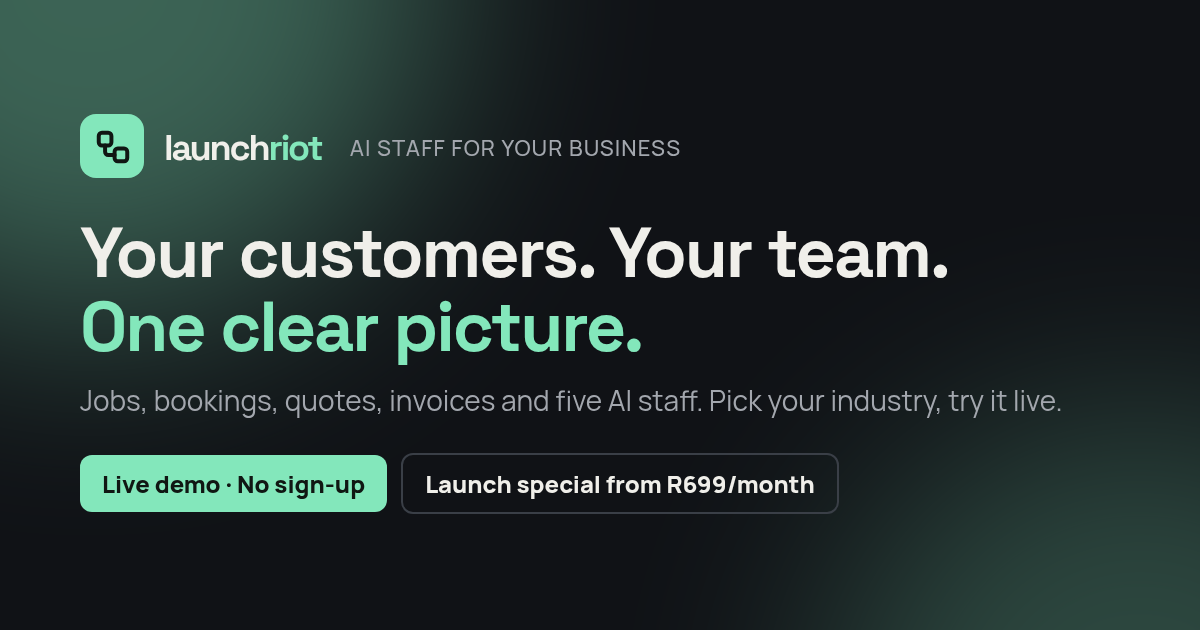
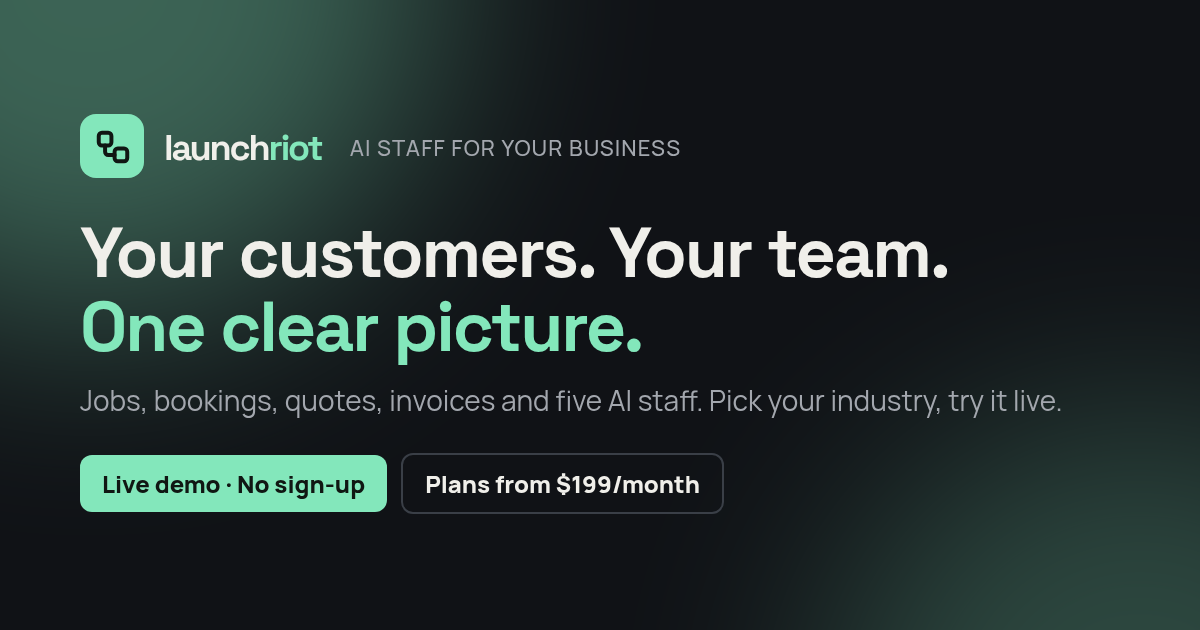
New USD pricing: Starter $199, Growth $249, Extreme / Heavy usage $499

Changed region(s): [[0.3392, 0.754, 0.6783, 0.7841], [0.6167, 0.6937, 0.6783, 0.7238]]

diff --git a/app.js b/app.js
@@ -25,17 +25,14 @@ function fake(what){D.sent.unshift({t:new Date().toLocaleString(),what});save();
 const cust=id=>D.customers.find(c=>c.id==id)?.name||'',tech=id=>D.techs.find(t=>t.id==id)?.name||'';
 const pill=s=>`<span class="pill ${s.toLowerCase().split(' ').pop()}">${s}</span>`;
 const tbl=(h,rows)=>`<div class="tw"><table><tr>${h.map(x=>`<th>${x}</th>`).join('')}</tr>${rows.map(r=>`<tr>${r.map(x=>`<td>${x}</td>`).join('')}</tr>`).join('')}</table></div>`;
-const PLANS=[{n:'Starter',was:999,now:699,bots:'Full system with the Support bot'},{n:'Growth',was:1299,now:999,bots:'Support, Sales and Dispatch/Operations bots',pop:1},{n:'Full Ops',was:1999,now:1499,bots:'All 5 bots (Support, Sales, Marketing, Dispatch/Operations and Finance) plus priority setup'}];
 const INCL=['Jobs, bookings, scheduling & work records','Customers, quotes, invoices & stock','Monthly finance reports & exports','Human approval controls for every AI action'];
-function pricing(){return `<div class="hero" style="padding:40px 20px 24px"><div class="eyebrow">🚀 LAUNCH SPECIAL · FIRST 3 MONTHS</div><h1>Pick your AI team. <span class="grad">Lock in launch pricing.</span></h1><p class="muted">Per business, per month, in rand. The full system is included on every plan, whatever your industry.</p></div><div class="wrap">
-<div class="plans">${PLANS.map(p=>`<div class="plan ${p.pop?'pop':''}"><span class="badge">LAUNCH SPECIAL</span>${p.pop?'<span class="badge2">MOST POPULAR</span>':''}<h2 style="margin:6px 0">${p.n}</h2>
-<div class="was">${R(p.was)}/month</div><div class="now">${R(p.now)}<span>/month</span></div><div class="for3">for 3 months</div><div class="muted">${R(p.was)}/month from month 4</div>
-<ul><li><b>${p.bots}</b></li>${INCL.map(i=>`<li>${i}</li>`).join('')}</ul><a class="btn ${p.pop?'':'dark'}" href="https://launchriot.online" target="_blank">Book a setup call</a></div>`).join('')}</div>
-<p class="muted" style="text-align:center;margin-top:26px">After 3 months the regular price applies. Per business · South African rand · Full system included.<br>This is a public demo. No payment details are collected and no subscription is started here.</p>
-<div class="card" style="max-width:520px;margin:20px auto;text-align:center"><b>Setup from R1,500</b><div class="muted">One-time setup, separate from the subscription. Discuss your data import and onboarding at your setup call.</div></div></div>`}
-const BOTS=()=>[['🛟','Support bot','Answers customer messages any time of day, asks the right questions and books the next step.'],['💼','Sales bot','Turns enquiries into quotes and follows them up, so warm leads don&rsquo;t go cold.'],['📣','Marketing bot','Turns your work into ready-to-post updates for your socials, and waits for your OK.'],['🚐','Dispatch / Operations bot','Keeps your team moving: who&rsquo;s where, what&rsquo;s next and what&rsquo;s done.'],['💸','Finance bot','Sends a daily wrap-up of what&rsquo;s invoiced, paid and overdue, and drafts reminders.']].map((b,i)=>[...b,IND.ex[i]]);
-const picker=()=>`<div class="chips" role="group" aria-label="Pick your industry">${INDS.map(i=>`<button class="chip ${i.k==IND.k?'on':''}" aria-pressed="${i.k==IND.k}" onclick="setInd('${i.k}')">${i.ic} ${i.label}</button>`).join('')}</div>`;
-const mono=(big)=>`<span class="mono ${big?'big':''}" aria-hidden="true">${IND.mono}</span>`;
+const PLANS=[{n:'Starter',now:199,bots:'Support bot',f:['Full system included','Standard usage','Email & WhatsApp support']},{n:'Growth',now:249,bots:'Support, Sales and Dispatch/Operations bots',pop:1,f:['Full system included','More usage for busier teams','Priority WhatsApp support']},{n:'Extreme / Heavy usage',now:499,bots:'All 5 bots: Support, Sales, Marketing, Dispatch/Operations and Finance',f:['Full system included','Highest usage limits for heavy workloads','Priority setup & dedicated support']}];
+const USD=n=>'$'+n;
+function pricing(){return `<div class="hero" style="padding:40px 20px 24px"><div class="eyebrow">PLANS &amp; PRICING</div><h1>Pick your AI team. <span class="grad">Simple monthly plans.</span></h1><p class="muted">Per business, per month, in USD, whatever your industry.</p></div><div class="wrap">
+<div class="plans">${PLANS.map(p=>`<div class="plan ${p.pop?'pop':''}">${p.pop?'<span class="badge2">MOST POPULAR</span>':''}<h2 style="margin:6px 0">${p.n}</h2>
+<div class="now">${USD(p.now)}<span>/month</span></div><div class="muted">USD, billed monthly</div>
+<ul><li><b>${p.bots}</b></li>${p.f.map(i=>`<li>${i}</li>`).concat(INCL.map(i=>`<li>${i}</li>`)).join('')}</ul><a class="btn ${p.pop?'':'dark'}" href="https://launchriot.online" target="_blank">Book a setup call</a></div>`).join('')}</div>
+<p class="muted" style="text-align:center;margin-top:26px">Prices in USD per month. The full system is included on every plan.<br>This is a public demo. No payment details are collected and no subscription is started here.</p></div>`}
 function home(){const inv=D.invoices.reduce((a,i)=>a+i.amount,0);return `<div class="hero"><div class="eyebrow">BUILT FOR SOUTH AFRICAN SMALL BUSINESSES · <span class="live">LIVE DEMO</span></div><h1>Your customers. Your team.<br><span class="grad">One clear picture.</span></h1><p class="muted">From the first &ldquo;<span id="hq">${esc(IND.hq)}</span>&rdquo; message to the final paid invoice. Five AI staff handle the admin around the clock. You approve, they get it done.</p>
 <p><a class="btn pulse" href="#/app/dashboard">Try the demo</a> &nbsp; <a class="btn dark" href="#/pricing">See plans</a></p><p class="muted">No sign-up. No card. Click around a working system.</p></div>
 <div class="wrap"><div class="card picker reveal" id="pick"><div class="eyebrow">PICK YOUR INDUSTRY</div><h2 style="margin:6px 0 4px">See it with work like yours</h2><p class="muted" style="margin:0 0 12px">Pick one and the whole demo switches: the sample business, the jobs, the wording and what the bots say.</p>${picker()}<p class="muted" style="margin:12px 0 0">Now showing: <b>${IND.biz}</b> · ${IND.what} · fictional sample business</p></div><br>
@@ -43,7 +40,7 @@ function home(){const inv=D.invoices.reduce((a,i)=>a+i.amount,0);return `<div cl
 <div class="grid"><div class="card chat reveal" id="hc"><b>🤖 AI staff, live</b> <span class="live">ONLINE</span> <span class="tag">SAMPLE</span><div id="hcm"></div></div>
 <div class="card reveal"><h3>Follow the whole job</h3>Enquiry, quote, booking, work record and invoice. Try the workflow end to end.<h3>See every perspective</h3>Switch between Owner, Office and ${IND.field}.<h3>Bring finance into focus</h3>Sample invoices, monthly records and downloadable finance reports.</div></div><br>
 <h2 class="sect reveal">Why businesses switch</h2><div class="grid"><div class="card reveal"><h3>Stop losing work to slow replies</h3><p class="muted">Enquiries come in at 9pm and on Sundays. Your Support and Sales bots answer straight away, ask the right questions and book the next step, so the customer doesn&rsquo;t go to whoever picked up first.</p></div><div class="card reveal"><h3>Everything on one board</h3><p class="muted">Leads, quotes, bookings, work records, photos and invoices sit in one place. No more scrolling the WhatsApp group to find out who did what.</p></div><div class="card reveal"><h3>Know where the money is</h3><p class="muted">See what&rsquo;s invoiced, what&rsquo;s paid and what&rsquo;s overdue. Monthly finance reports export in one click, ready for your bookkeeper.</p></div><div class="card reveal"><h3>You stay in charge</h3><p class="muted">Nothing goes out to a customer without your OK. Every reminder, post and schedule change the AI suggests waits in your approval queue until you say yes.</p></div></div><br><div class="eyebrow sect" style="text-align:center">MEET YOUR AI STAFF</div><h2 class="sect reveal">Five bots. One job each. All on your side.</h2><div class="grid bots">${BOTS().map(([ic,n,d,x])=>`<div class="card reveal"><div class="boticon">${ic}</div><h3>${n}</h3><p class="muted">${d}</p><p class="ex"><span class="tag">${IND.ic} ${IND.label.toUpperCase()}</span> ${x}</p></div>`).join('')}</div><br><div class="card example reveal">${mono(1)}<div><span class="tag">EXAMPLE</span><h2>A workspace for ${IND.biz}</h2><p>A fictional ${IND.what.toLowerCase()} business. Your system carries your own logo, colours and team. Sample data only.</p><a class="btn" href="#/app/dashboard">Open the ${IND.biz} example</a></div></div>
-<div class="card reveal" style="text-align:center;margin-top:20px"><div class="eyebrow">YOUR BUSINESS COULD BE NEXT</div><h2>Less admin. <span class="grad">More time for the work that pays.</span></h2><p>Launch special from <b>R699/month</b> for your first 3 months.</p><p><a class="btn pulse" href="#/app/dashboard">Try the demo</a> &nbsp; <a class="btn dark" href="https://launchriot.online" target="_blank">Book a setup call</a></p></div></div>`}
+<div class="card reveal" style="text-align:center;margin-top:20px"><div class="eyebrow">YOUR BUSINESS COULD BE NEXT</div><h2>Less admin. <span class="grad">More time for the work that pays.</span></h2><p>Plans from <b>$199/month</b>.</p><p><a class="btn pulse" href="#/app/dashboard">Try the demo</a> &nbsp; <a class="btn dark" href="https://launchriot.online" target="_blank">Book a setup call</a></p></div></div>`}
 let tmr=[];function stopFx(){tmr.forEach(clearTimeout);tmr.forEach(clearInterval);tmr=[]}
 function typeChat(el,list){if(!el)return;el.innerHTML='';let i=0;const step=()=>{if(i>=list.length){tmr.push(setTimeout(()=>typeChat(el,list),4000));return}const [c,t]=list[i++];const d=document.createElement('div');d.className='msg '+c;d.innerHTML='<span class="typing"><i></i><i></i><i></i></span>';el.appendChild(d);tmr.push(setTimeout(()=>{d.textContent=t;tmr.push(setTimeout(step,900))},900))};step()}
 function fx(){const io=new IntersectionObserver(es=>es.forEach(e=>e.isIntersecting&&e.target.classList.add('in')));document.querySelectorAll('.reveal').forEach(x=>io.observe(x));setTimeout(()=>document.querySelectorAll('.reveal').forEach(x=>x.classList.add('in')),1500);
